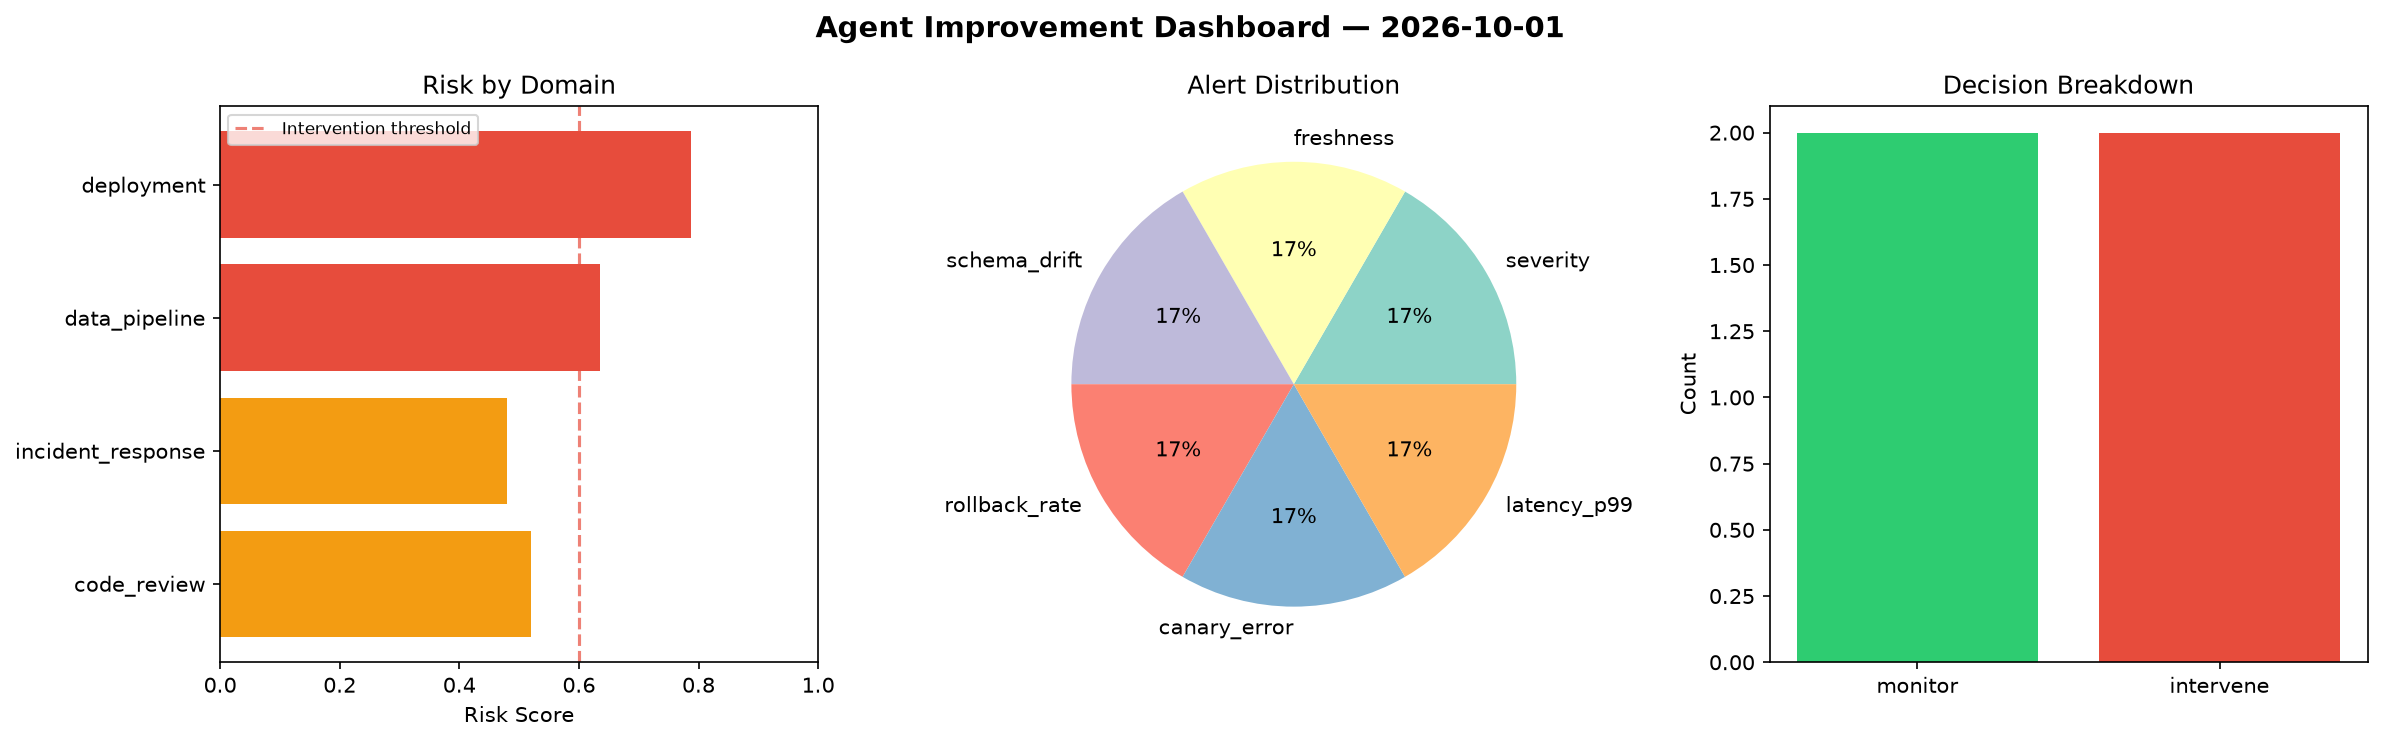
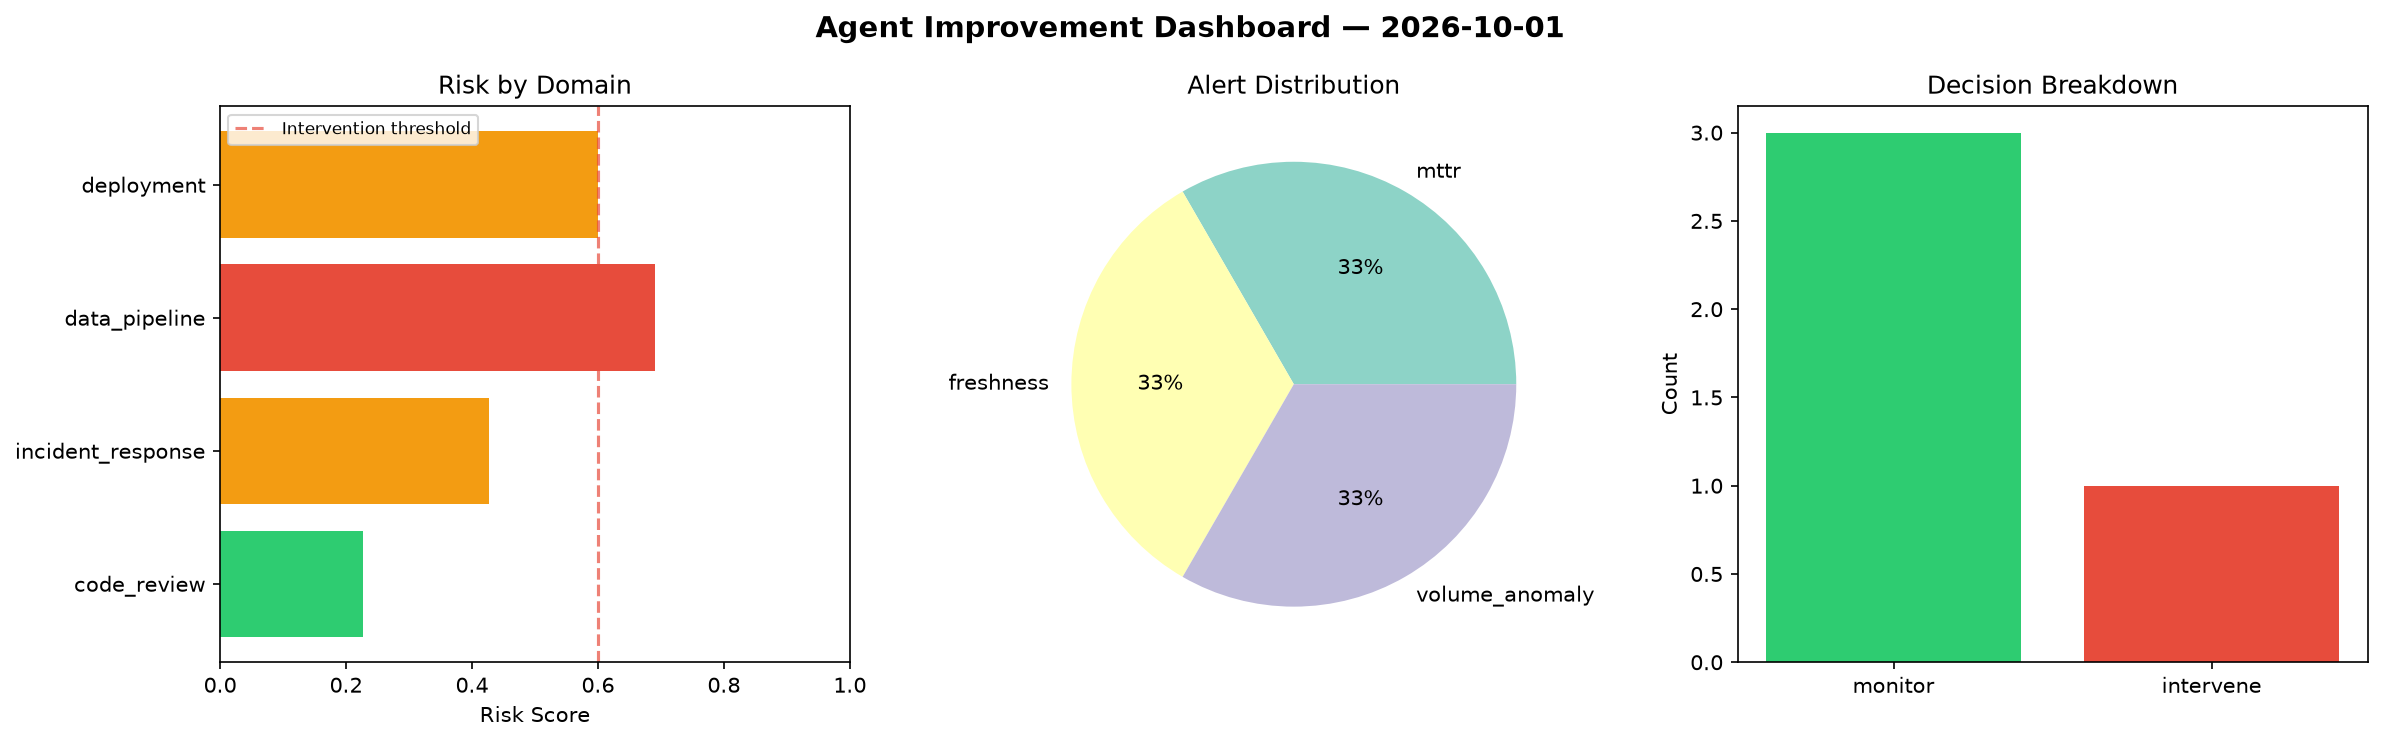
agent-improvement: daily cycle 2026-10-01T23:52

diff --git a/logs/2026-10-01.md b/logs/2026-10-01.md
@@ -1,6 +1,6 @@
 # Agent Improvement Report — 2026-10-01
 
-**Cycle ID:** `f8e372c6` | **Avg Risk:** 0.6057 | **Interventions:** 2/4
+**Cycle ID:** `58abe9df` | **Avg Risk:** 0.486 | **Interventions:** 1/4
 
 ![Dashboard](2026-10-01_dashboard.png)
 
@@ -10,18 +10,18 @@
 
 | Domain | Risk Score | Decision | Alerts |
 |--------|-----------|----------|--------|
-| code_review | 0.5199 | monitor | none |
-| incident_response | 0.4793 | monitor | severity |
-| data_pipeline | 0.6356 | intervene | freshness, schema_drift |
-| deployment | 0.7879 | intervene | rollback_rate, canary_error, latency_p99 |
+| code_review | 0.2265 | monitor | none |
+| incident_response | 0.427 | monitor | mttr |
+| data_pipeline | 0.6904 | intervene | freshness, volume_anomaly |
+| deployment | 0.6 | monitor | none |
 
 ## Delta vs Yesterday
 
 | Domain | Today | Yesterday | Change |
 |--------|-------|-----------|--------|
-| code_review | 0.5199 | 0.5674 | 📉 -8.4% |
-| incident_response | 0.4793 | 0.5605 | 📉 -14.5% |
-| data_pipeline | 0.6356 | 0.6038 | 📈 5.3% |
-| deployment | 0.7879 | 0.8068 | 📉 -2.3% |
+| code_review | 0.2265 | 0.5674 | 📉 -60.1% |
+| incident_response | 0.427 | 0.5605 | 📉 -23.8% |
+| data_pipeline | 0.6904 | 0.6038 | 📈 14.3% |
+| deployment | 0.6 | 0.8068 | 📉 -25.6% |
 
 **Refinement:** `{'adjustment': 'tighten_thresholds', 'trend': 'degrading', 'window': 4}`
